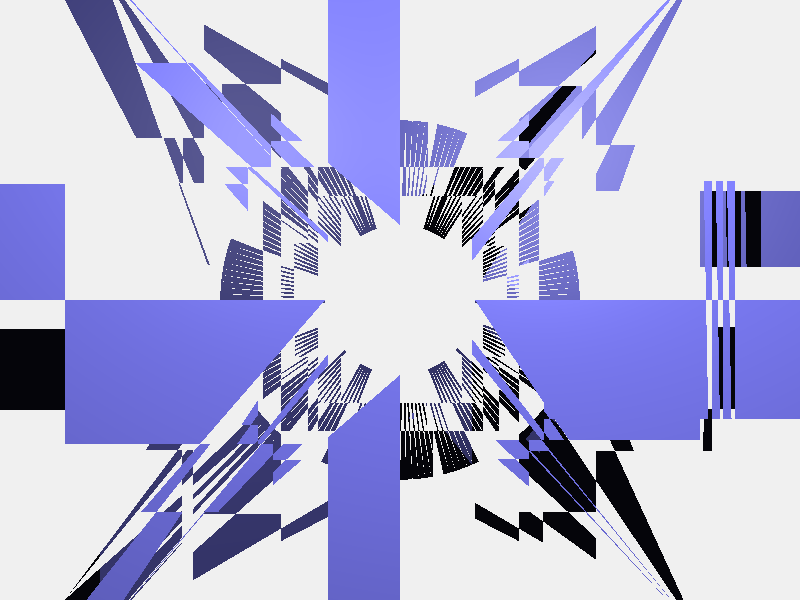
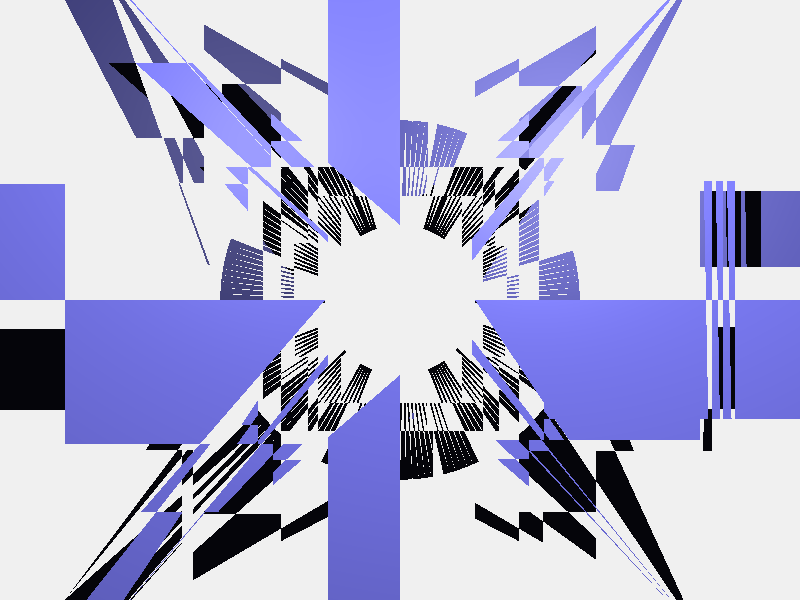
Fix k-d tree traversal algorithm for axis-aligned camera rays

diff --git a/index.d.ts b/index.d.ts
@@ -11,3 +11,7 @@ export declare function greetWithName(name: string): string
 export declare function renderScene(sceneJson: string, outputPath: string, width?: number | undefined | null, height?: number | undefined | null): string
 /** Render a scene from JSON string with brute force (no k-d tree) */
 export declare function renderSceneBruteForce(sceneJson: string, outputPath: string, width?: number | undefined | null, height?: number | undefined | null): string
+/** Render a scene from JSON file directly (handles relative paths correctly) */
+export declare function renderSceneFromFile(sceneFilePath: string, outputPath: string, width?: number | undefined | null, height?: number | undefined | null): string
+/** Render a scene from JSON file with brute force (no k-d tree) */
+export declare function renderSceneFromFileBruteForce(sceneFilePath: string, outputPath: string, width?: number | undefined | null, height?: number | undefined | null): string

diff --git a/src/mesh.rs b/src/mesh.rs
@@ -247,30 +247,33 @@ impl KdTree {
                 let origin_pos = ray_origin[*axis];
                 let dir = ray_direction[*axis];
 
-                // Determine traversal order based on ray direction
-                let (first, second) = if dir >= 0.0 {
+                // If ray is parallel to the splitting plane, only traverse the side it's on
+                if dir.abs() < 1e-9 {
+                    if origin_pos <= *split_pos {
+                        self.traverse_recursive(left.as_ref(), ray_origin, ray_direction, callback);
+                    } else {
+                        self.traverse_recursive(right.as_ref(), ray_origin, ray_direction, callback);
+                    }
+                    return;
+                }
+
+                // Calculate where ray intersects the splitting plane
+                let t_split = (*split_pos - origin_pos) / dir;
+
+                // Determine which child to traverse first based on ray direction
+                let (first, second) = if origin_pos <= *split_pos {
                     (left.as_ref(), right.as_ref())
                 } else {
                     (right.as_ref(), left.as_ref())
                 };
 
-                // Check if ray starts on the left or right of split plane
-                if origin_pos <= *split_pos {
-                    // Ray starts on left side
-                    self.traverse_recursive(first, ray_origin, ray_direction, callback);
-                    
-                    // Check if ray crosses the split plane
-                    if dir > 0.0 {
-                        self.traverse_recursive(second, ray_origin, ray_direction, callback);
-                    }
-                } else {
-                    // Ray starts on right side
+                // Always traverse the first child (the one containing the ray origin)
+                self.traverse_recursive(first, ray_origin, ray_direction, callback);
+
+                // Only traverse the second child if the ray crosses the splitting plane
+                // at a positive t value (i.e., it actually reaches the other side)
+                if t_split >= 0.0 {
                     self.traverse_recursive(second, ray_origin, ray_direction, callback);
-                    
-                    // Check if ray crosses the split plane
-                    if dir < 0.0 {
-                        self.traverse_recursive(first, ray_origin, ray_direction, callback);
-                    }
                 }
             }
         }

diff --git a/bindings/node/src/lib.rs b/bindings/node/src/lib.rs
@@ -52,3 +52,43 @@ pub fn render_scene_brute_force(scene_json: String, output_path: String, width: 
     
     Ok(format!("Successfully rendered {}x{} image to '{}' (brute force)", width, height, output_path))
 }
+
+/// Render a scene from JSON file directly (handles relative paths correctly)
+#[napi]
+pub fn render_scene_from_file(scene_file_path: String, output_path: String, width: Option<u32>, height: Option<u32>) -> Result<String> {
+    let width = width.unwrap_or(800);
+    let height = height.unwrap_or(600);
+    
+    // Load scene from file (handles relative paths)
+    let scene = rtrace::Scene::from_json_file(&scene_file_path)
+        .map_err(|e| Error::new(Status::InvalidArg, format!("Failed to load scene file: {}", e)))?;
+    
+    // Create renderer with k-d tree enabled
+    let renderer = rtrace::Renderer::new(width, height);
+    
+    // Render and save
+    renderer.render_to_file(&scene, &output_path)
+        .map_err(|e| Error::new(Status::GenericFailure, format!("Failed to render scene: {}", e)))?;
+    
+    Ok(format!("Successfully rendered {}x{} image to '{}'", width, height, output_path))
+}
+
+/// Render a scene from JSON file with brute force (no k-d tree)
+#[napi]
+pub fn render_scene_from_file_brute_force(scene_file_path: String, output_path: String, width: Option<u32>, height: Option<u32>) -> Result<String> {
+    let width = width.unwrap_or(800);
+    let height = height.unwrap_or(600);
+    
+    // Load scene from file (handles relative paths)
+    let scene = rtrace::Scene::from_json_file(&scene_file_path)
+        .map_err(|e| Error::new(Status::InvalidArg, format!("Failed to load scene file: {}", e)))?;
+    
+    // Create renderer with k-d tree disabled (brute force)
+    let renderer = rtrace::Renderer::new_brute_force(width, height);
+    
+    // Render and save
+    renderer.render_to_file(&scene, &output_path)
+        .map_err(|e| Error::new(Status::GenericFailure, format!("Failed to render scene: {}", e)))?;
+    
+    Ok(format!("Successfully rendered {}x{} image to '{}' (brute force)", width, height, output_path))
+}
